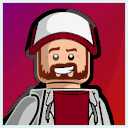
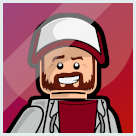
minor tweaks

diff --git a/docs/index.html b/docs/index.html
@@ -3,7 +3,7 @@
     <head>
         <title>Lego Legacy: Phrases Unleashed</title>
         <meta charset="utf-8"/>
-        <meta name="viewport" content="width=device-width, initial-scale=1.0">
+        <meta name="viewport" content="width=device-width, initial-scale=1.0, maximum-scale=1">
         <link rel="preconnect" href="https://fonts.gstatic.com">
         <link href="https://fonts.googleapis.com/css2?family=Mouse+Memoirs&family=Montserrat:wght@500&family=Luckiest+Guy&display=swap" rel="stylesheet">
         <link href="main.css?v3.9" rel="stylesheet">

diff --git a/docs/main.js b/docs/main.js
@@ -97,7 +97,7 @@ document.addEventListener('DOMContentLoaded', () => {
             decal.src,
             name.value,
             message.value,
-            (params.has('wisely') ? 'yellow' : (pink.checked ? 'pink' : '')),
+            (params.has('wisely') ? 'red' : (pink.checked ? 'pink' : '')),
             document.querySelector('input.style:checked')?.value ?? 'phrase',
             !params.has('debug')
         );

diff --git a/docs/main.css b/docs/main.css
@@ -27,6 +27,7 @@
     --message-blue-border-dark: #333258;
 
     --yellow: #ffcd04;
+    --red: #86001b;
 }
 
 /* Generell element styling */
@@ -111,6 +112,10 @@ textarea.disabled {
 
 .yellow {
     color: var(--yellow);
+}
+
+.red {
+    color: var(--red);
 }
 
 a {
